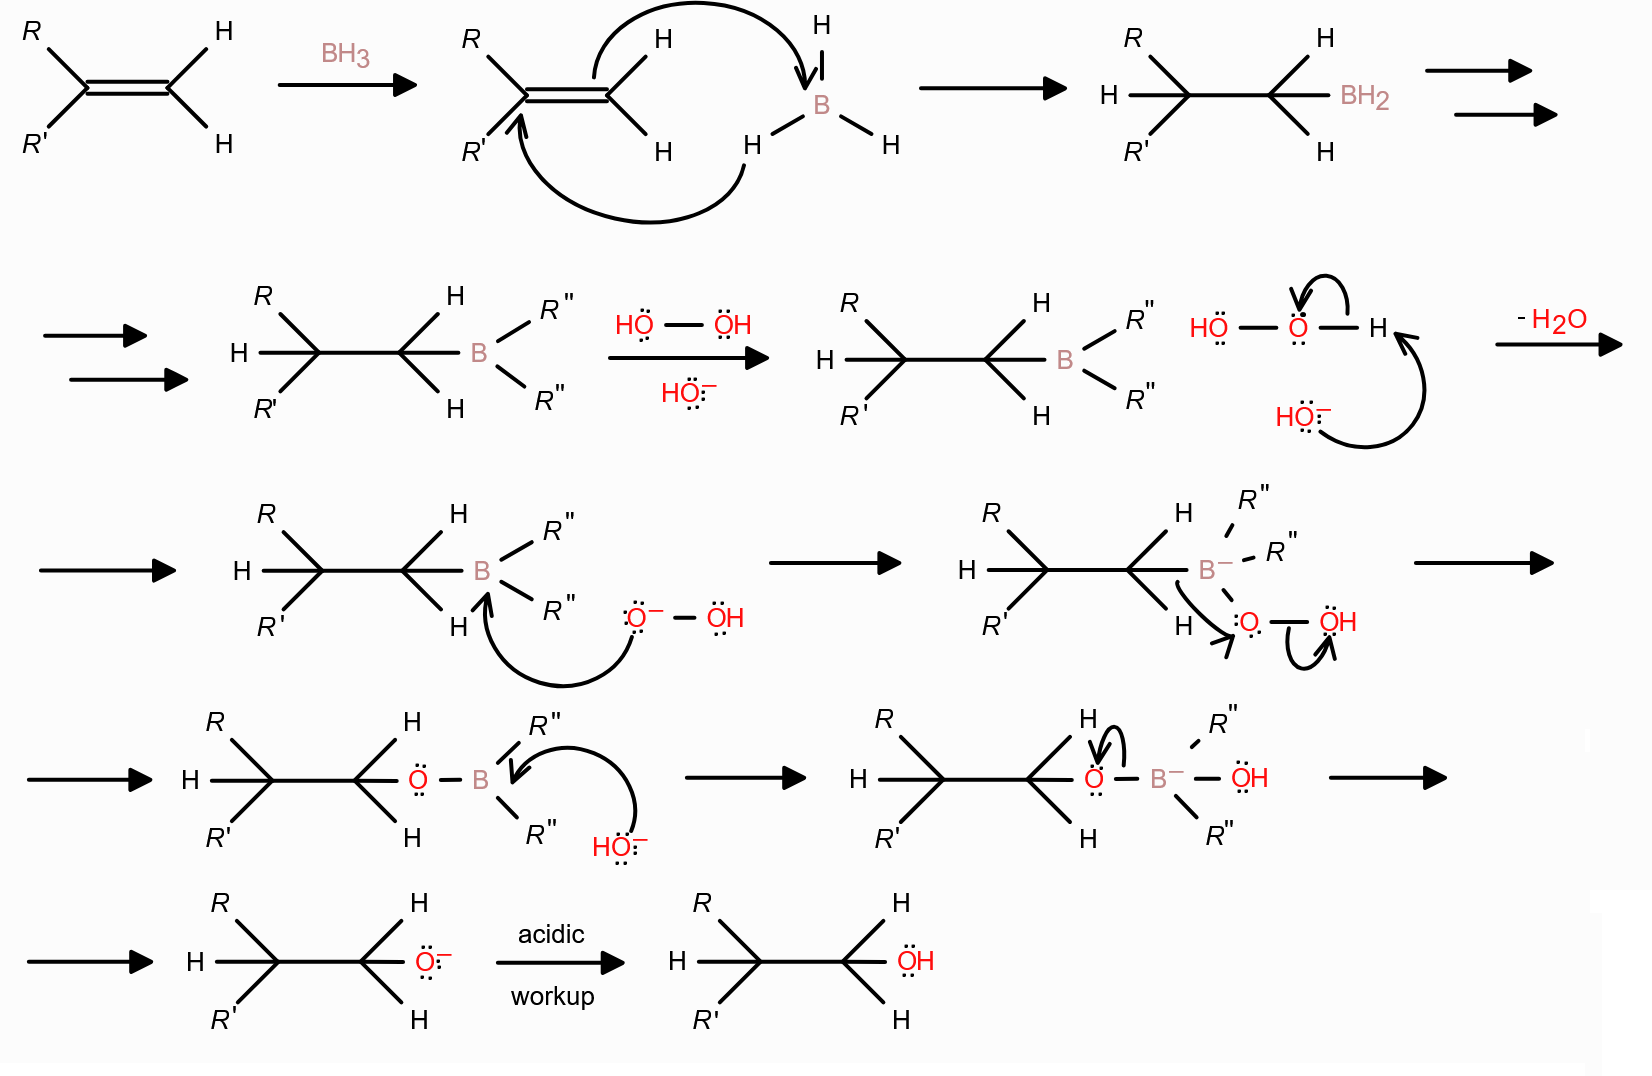
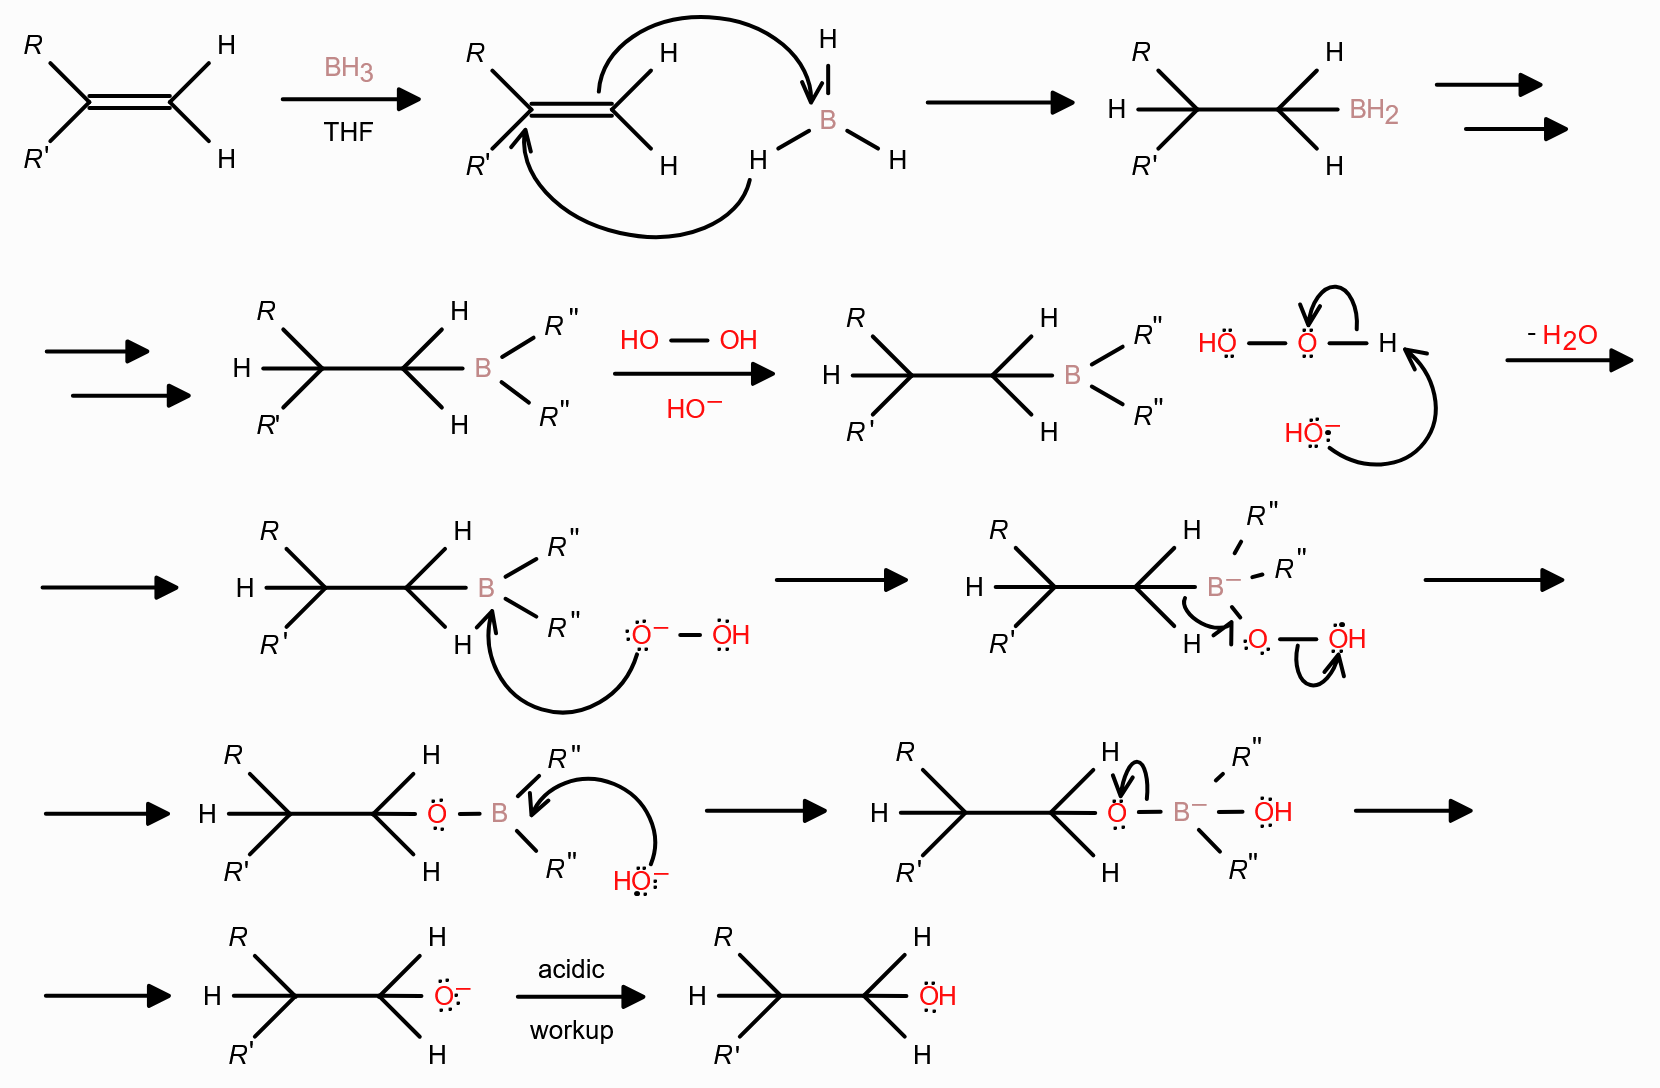
2026-02-09 update

diff --git a/Organic Chemistry/Classes of compounds/Alcohols.md b/Organic Chemistry/Classes of compounds/Alcohols.md
@@ -62,6 +62,7 @@ The proton still bonds according to **Markovnikov's rule**.
 **Reagents:**
 - $\ce{Hg(OAc)2}$
 - $\ce{NaBH4}$
+- $\ce{H2O}$ (solvent)
 
 **Requirements:**
 - None
@@ -81,7 +82,7 @@ Assures there is **no rearrangement**.
 - $\ce{OH-}$
 
 **Requirements:**
-- None
+- Preferred solvent - [THF](Cheat%20Sheet#Acronyms)
 
 **Product:** **anti-Markovnikov**
 
@@ -93,12 +94,68 @@ $\ce{B}$ bonds to a less substituted side because it is the least hindered side 
 > All 3 $\ce{H}$ in $\ce{BH3}$ are replaced by the starting molecule.
 > One $\ce{BH3}$ molecule "processes" 3 starting molecules at once.
 
+## Synthesis by Redox
+
+In organic compounds, oxidation is often the **addition of oxygen** atoms and reduction - **addition of hydrogen** atoms.
+
+![[_media/Alcohols/alcohols-redox.png]]
+
+#### Reduction of carbonyls
+
+Reducing agents:
+- $\ce{LiAlH4}$ - **strong** reducing agent, use on **carboxylic acids**. **Use aprotic solvent.**
+- $\ce{NaBH4}$ - **mild** reducing agent; use on **carbonyls**. Any solvent.
+
+> All reductions are followed by an **acidic workup**!
+
+> Reduction releases hydrogen gas! Be cautious of gas evolution!
+
+![[_media/Alcohols/alcohols-from-carbonyls.png]]
+
+> If after reduction a stereocenter is formed, the resulting solution is a **racemic mixture** of the product stereoisomers.
+
+Alkyl halides can also be reduced to alkanes using $\ce{LiAlH4}$ in the same manner as alcohols can be reduced to alkanes.
+
+---
+
+**Mechanisms:**
+
+The reactivity of the carbonyls can be attributed to the fact that the $\ce{C=O}$ bond is polar and the carbon partially positively charged and thus electrophilic.
+
+![[_media/Alcohols/alcohols-carbonyl-reaction-mechanism.png]]
+
+Reduction mechanism:
+![[_media/Alcohols/alcohols-carbonyl-reduction-mechanism.png]]
+
+#### Oxidation
+
+Oxidizing agents:
+- $\ce{CrO3 / H2CrO4 / CrO3 + H2SO4}$ - **strong** oxidizing agents; all the same; alcohol → acid.
+- $\ce{KMnO4}$ - **strong** oxidizing agent; alcohol → acid.
+- $\ce{PCC}$ (pyridinium chlorochromate) - **mild** oxidizing agent; alcohol → carbonyl.
+
+How far can oxidize alcohols:
+- $1 \degree$: alcohol → aldehyde → carboxylic acid
+- $2 \degree$: alcohol → ketone
+- $3 \degree$: **does not oxidize**
+
+```smiles
+C(O)[R].[Cr](=O)(O)(=O)(O)>>C(=O)[R]
+>>C(=O)(O)[R]
+```
+
+Oxidation mechanism:
+![[_media/Alcohols/alcohols-oxidation-CrO3.png]]
+
+PCC formation:
+![[_media/Alcohols/alcohols-PCC-formation.png]]
+
 ## Reactions
 
 #### SN2/E2
 
 Since the oxygen in the $\ce{-OH}$ group has lone $e^-$-pairs, it can act as a nucleophile in [SN2](Nucleophilic%20substitution#SN2) & [E2](Elimination#E2) reactions.
-**Alcoxides** (deprotonated alcohols) are strong nucleophiles.
+**Alkoxides** (deprotonated alcohols) are strong nucleophiles.
 
 Favour [SN2](Nucleophilic%20substitution#SN2): Small substrate + bulky alcohol + lower temperatures.
 Favour [E2](Elimination#E2): Bulky substrate + small alcohol + higher temperatures.
@@ -146,6 +203,8 @@ Can happen w/ carboxylic acids or other acids.
 
 ![[_media/Alcohols/alcohols-alkyl-halides-from-HX.png]]
 
+==peroxides?
+
 #### Primary and secondary alkyl chlorides
 
 **Using $\ce{ZnCl2}$ as a catalyst:**
@@ -190,8 +249,8 @@ Ensures there is **no rearrangement** during the reaction.
 
 ![[_media/Alcohols/alcohols-alkyl-bromides-from-PBr3.png]]
 
-
-==QUESTION: why use this instead of HCl?
+> Tends to be more reliable and faster than [[#Alkyl halides from hydrogen halides]] in this scenario.
+> + no rearrangement!
 
 #### Dehydration
 

diff --git a/Organic Chemistry/Classes of compounds/Organometallic compounds.md b/Organic Chemistry/Classes of compounds/Organometallic compounds.md
@@ -1,0 +1,81 @@
+
+Metals bonded to an organic chain.
+Adding a metal to an $e^-$-poor $\ce{C}$ makes it $e^-$-rich.
+Can be viewed as a metallic cation & a [carbanion](Reaction%20intermediates#Carbanions).
+
+> aka. **Grignard reagents**
+
+**Interactions:**
+
+| $\ce{Li}$    | $\ce{Mg, Zn, Cd}$  | $\ce{Pb, Sn, Hg}$ |
+| ------------ | ------------------ | ----------------- |
+| mainly ionic | partially covalent | mainly covalent   |
+
+## Synthesis
+
+> Before the synthesis, refer to [[#Risks]]!
+
+Usually synthesized from alkyl halides by the addition of the appropriate solid metal.
+
+![[_media/Organometallic compounds/organometallic-compounds-synthesis.png]]
+
+## Reactions
+
+#### With carbonyls
+
+The most common use of Grignard reagents.
+
+Carbonyl → alcohol
+
+With carbonyls (aldehydes & ketones):
+![[_media/Organometallic compounds/organometallic-compounds-with-carbonyls.png]]
+
+With esters:
+![[_media/Organometallic compounds/organometallic-compounds-with-esters.png]]
+
+Notice how the $\ce{R''}$ group is actually lost.
+
+#### With carbon dioxide
+
+A fairly common reaction use to create carboxylic acids.
+
+![[_media/Organometallic compounds/organometallic-compounds-with-carbon-dioxide.png]]
+
+#### Extending the carbon chain
+
+Since these compounds are essentially carbanions, they can be used in the [SN2](Nucleophilic%20substitution#SN2) reactions (with e.g. alkyl halides) to extend the carbon chain.
+
+![[_media/Organometallic compounds/organometallic-compounds-extending-chain.png]]
+
+#### Deuterium-labeling
+
+It might be useful to replace a certain hydrogen atom in a molecule with deuterium.
+For that, Grignard reagents may be used.
+
+![[_media/Organometallic compounds/organometallic-compounds-deuterium-labeling.png]]
+
+## Risks
+
+Grignard reagents are **extremely strong nucleophiles** and will deprotonate the solvent, if it's protic. So use **only aprotic solvents**.
+
+---
+
+Avoid groups on the starting material that can easily be deprotonated, because chances are the Grignard reagents are going to react with them instead:
+$\ce{-OH, -NH2, -NHR, -COOH, -CC#H}$
+
+---
+
+(Somewhat obvious but still)
+The Grignard reagents themselves must not have carbonyl groups in them when they are prepared. Otherwise, they are going to react with themselves - autocondensation.
+
+## Cuprates
+
+Compounds involving copper.
+Can be used to bond 2 different alkyl chains together, but also looses some of the groups along the way.
+
+$$
+\begin{flalign}
+&\ce{2 CH3-Li + CuI -> (CH3)2CuLi} \space\space\space\space\space\space\space\space\space\space\space\space\space\space\space\space\space\space\space\space \text{in general: } \ce{R-Li/R-MgX + Cu-X -> (R)2Cu...} \\
+&\ce{(R)2CuLi + R'X -> R-R' + RCu + LiX}
+&\end{flalign}
+$$

diff --git a/Organic Chemistry/Classes of compounds/Ethers.md b/Organic Chemistry/Classes of compounds/Ethers.md
@@ -2,13 +2,64 @@
 **General form:**
 $\ce{R-O-R'}$
 
+**Sensitive to acids (hydrolysis), inert to bases.**
 
-sensitive to acids
-inert to bases
+This makes them good polar aprotic solvents for reactions in basic conditions.
 
+Most ethers can form peroxides over time in a [radical reaction](Radical%20reactions) w/ oxygen.
 
-epoxides react with both acids and basee because of the ring strain
+==peroxide acids?
 
-protecting O by creating t-Bu ether
-another way of protecting - transformation to silyl ethers
+## Protection of hydroxyl groups
+
+Hydroxyl groups in [[Classes of compounds/Alcohols|Alcohols]] can react in acid-base reactions or other reactions.
+When synthesizing a compound w/ multiple functional groups, it might be necessary to carry out a reaction that might disturb the hydroxyl group.
+For it to stay intact, it is protected by converting it to an ether.
+
+![[_media/Ethers/ethers-ether-protection.png]]
+
+It is also possible to protect hydroxyl groups by turning them into silyl ethers:
+
+![[_media/Ethers/ethers-silyl-protection.png]]
+
+Either $\ce{H+}$ or $\ce{F-}$ can be used to deprotect the compound in the case of silyl protection.
+
+## Epoxides
+
+General form:
+```smiles
+[R]C1OC1[R]
+```
+
+React w/ both acids and bases because of the large ring strain.
+
+#### Acid-catalyzed ring opening
+
+Usually, a weak nucleophile is used (e.g. the solvent $\ce{H2O, CH3OH, ...}$)
+The epoxide is first protonated, which creates a partial carbocation on a **more substituted carbon**, then the nucleophile attacks the carbon from the backside.
+The reaction can also be considered to be somewhat an [SN2](Nucleophilic%20substitution#SN2) reaction, which explains it.
+
+![[_media/Ethers/ethers-acid-catalyzed-ring-opening.png]]
+
+#### Base-catalyzed ring opening
+
+Only happens in epoxides.
+
+Usually, a strong nucleophile is used (commonly an alkoxide).
+The nucleophile attacks a **less substituted carbon**.
+The reaction takes place via the [SN2](Nucleophilic%20substitution#SN2) mechanism.
+
+![[_media/Ethers/ethers-base-catalyzed-ring-opening.png]]
+
+#### Anionic polymerization
+
+Epoxides can form polyethers when reacting w/ an alkoxide & a small amount of alcohol:
+
+![[_media/Ethers/ethers-anionic-polymerization.png]]
+
+#### Anti dihydroxylation
+
+Epoxidation + [[#Acid-catalyzed ring opening]] → anti 1,2-dihydroxylation
+
+![[_media/Ethers/ethers-anti-dihydroxylation.png]]
 

diff --git a/Organic Chemistry/Reactions/Nucleophilic substitution.md b/Organic Chemistry/Reactions/Nucleophilic substitution.md
@@ -100,6 +100,35 @@ Nucleophiles are more reactive when they are... (generally, less stable):
 
 ==larger = better?
 
+---
+
+Tosylates, mesylates, and triflates are good leaving groups on oxygens (e.g. alkoxides).
+
+Tosyl group ($\ce{Ts-R}$); alkyl tosylate ($\ce{Ts-OR}$):
+```smiles
+[R]S(=O)(=O)C1=CC=C(C)C=C1
+[R]OS(=O)(=O)C1=CC=C(C)C=C1
+```
+
+Mesyl group ($\ce{Ms-R/Me-SO2-R}$); alkyl mesylate ($\ce{MsOR/MeSO3R}$):
+```smiles
+[R]S(=O)(=O)C
+[R]OS(=O)(=O)C
+```
+
+Trifyl group ($\ce{Tf-R/CF3SO2-R}$); alkyl triflate ($\ce{Tf-OR/CF3SO3R}$):
+```smiles
+[R]S(=O)(=O)C(F)(F)(F)
+[R]OS(=O)(=O)C(F)(F)(F)
+
+```
+
+> The carbon that the oxygen is on **retains the same configuration** it had before the creation of the ester!
+
+Reaction example:
+
+![[_media/Nucleophilic substitution/tosylate-example.png]]
+
 [[https://chem.libretexts.org/Courses/Westminster_College/CHE_261_-_Organic_Chemistry_I/08%3A_Substitution_and_Elimination_Reactions/8.05%3A_Leaving_Groups]]
 
 

diff --git a/Organic Chemistry/Cheat Sheet.md b/Organic Chemistry/Cheat Sheet.md
@@ -14,7 +14,10 @@ LaTeX editor - https://visualmatheditor.equatheque.net/
 **PBS** - phosphate-buffered saline
 **t-Bu/tBu** - *tert*-butyl group; $\ce{-C(CH3)3}$
 **Ts** - tosylate, good leaving group
+**TMS** - trimethylsilyl group; $\ce{-Si(CH3)3}$
 NBS - ...
+**THF** - trihydrofuran; $\ce{(CH2)4O}$
+**PCC** - pyridinium chlorochromate
 **CAS** - a unique number for a chemical
 
 ## Common chemicals

diff --git a/Organic Chemistry/Reactions/Creating carbanions from alkynes.md b/Organic Chemistry/Reactions/Creating carbanions from alkynes.md
@@ -1,0 +1,11 @@
+
+**Reagents:**
+- Alkyne
+- Strong base ($\ce{NaNH2}$)
+
+**Requirements:**
+- Liquid ammonia
+
+![[_media/Creating carbanions from alkynes/carbanion.png]]
+
+The created carbanions can later be used as a strong nucleophile in subsequent reactions.

diff --git a/Organic Chemistry/Reactions/Hydrogenation of alkenes and alkynes.md b/Organic Chemistry/Reactions/Hydrogenation of alkenes and alkynes.md
@@ -8,4 +8,6 @@
 
 ![[_media/Hydrogenation of alkenes and alkynes/hydrogenation-ex.png]]
 
+==H2/Ni2B (P-2)
+
 [Partial reduction](https://www.masterorganicchemistry.com/2011/08/19/lindlars-catalyst-partial-cis-reduction/)
